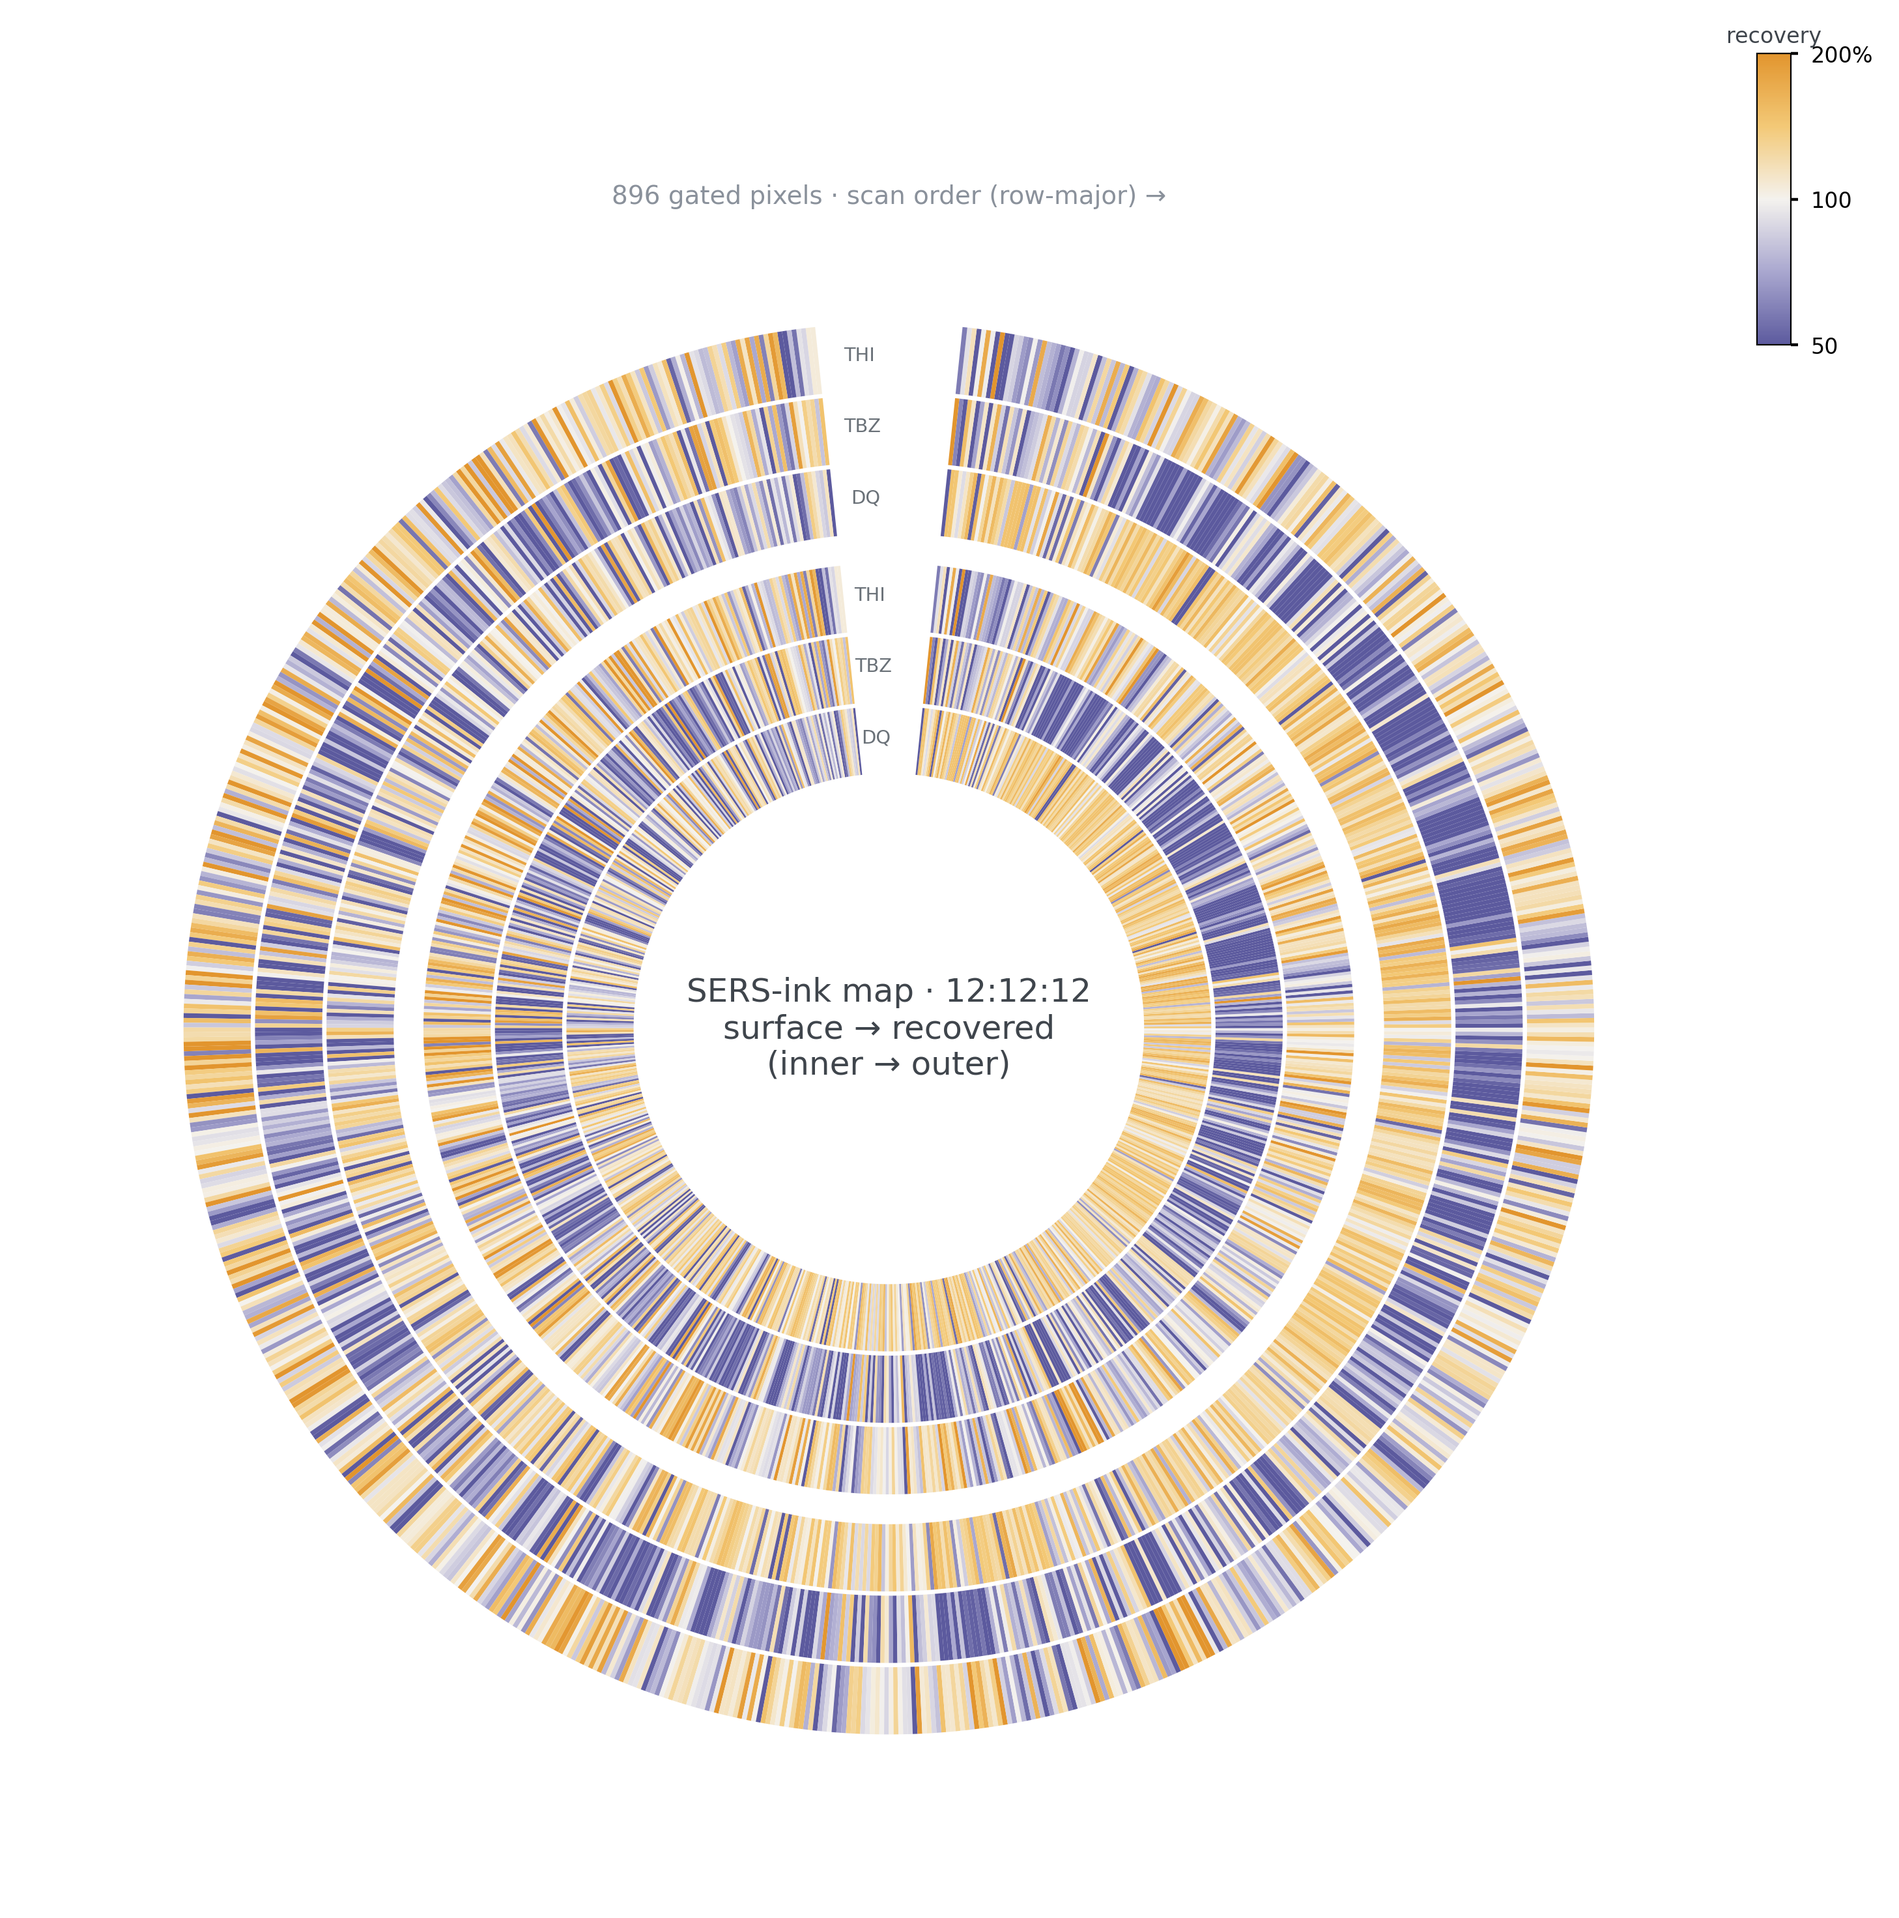
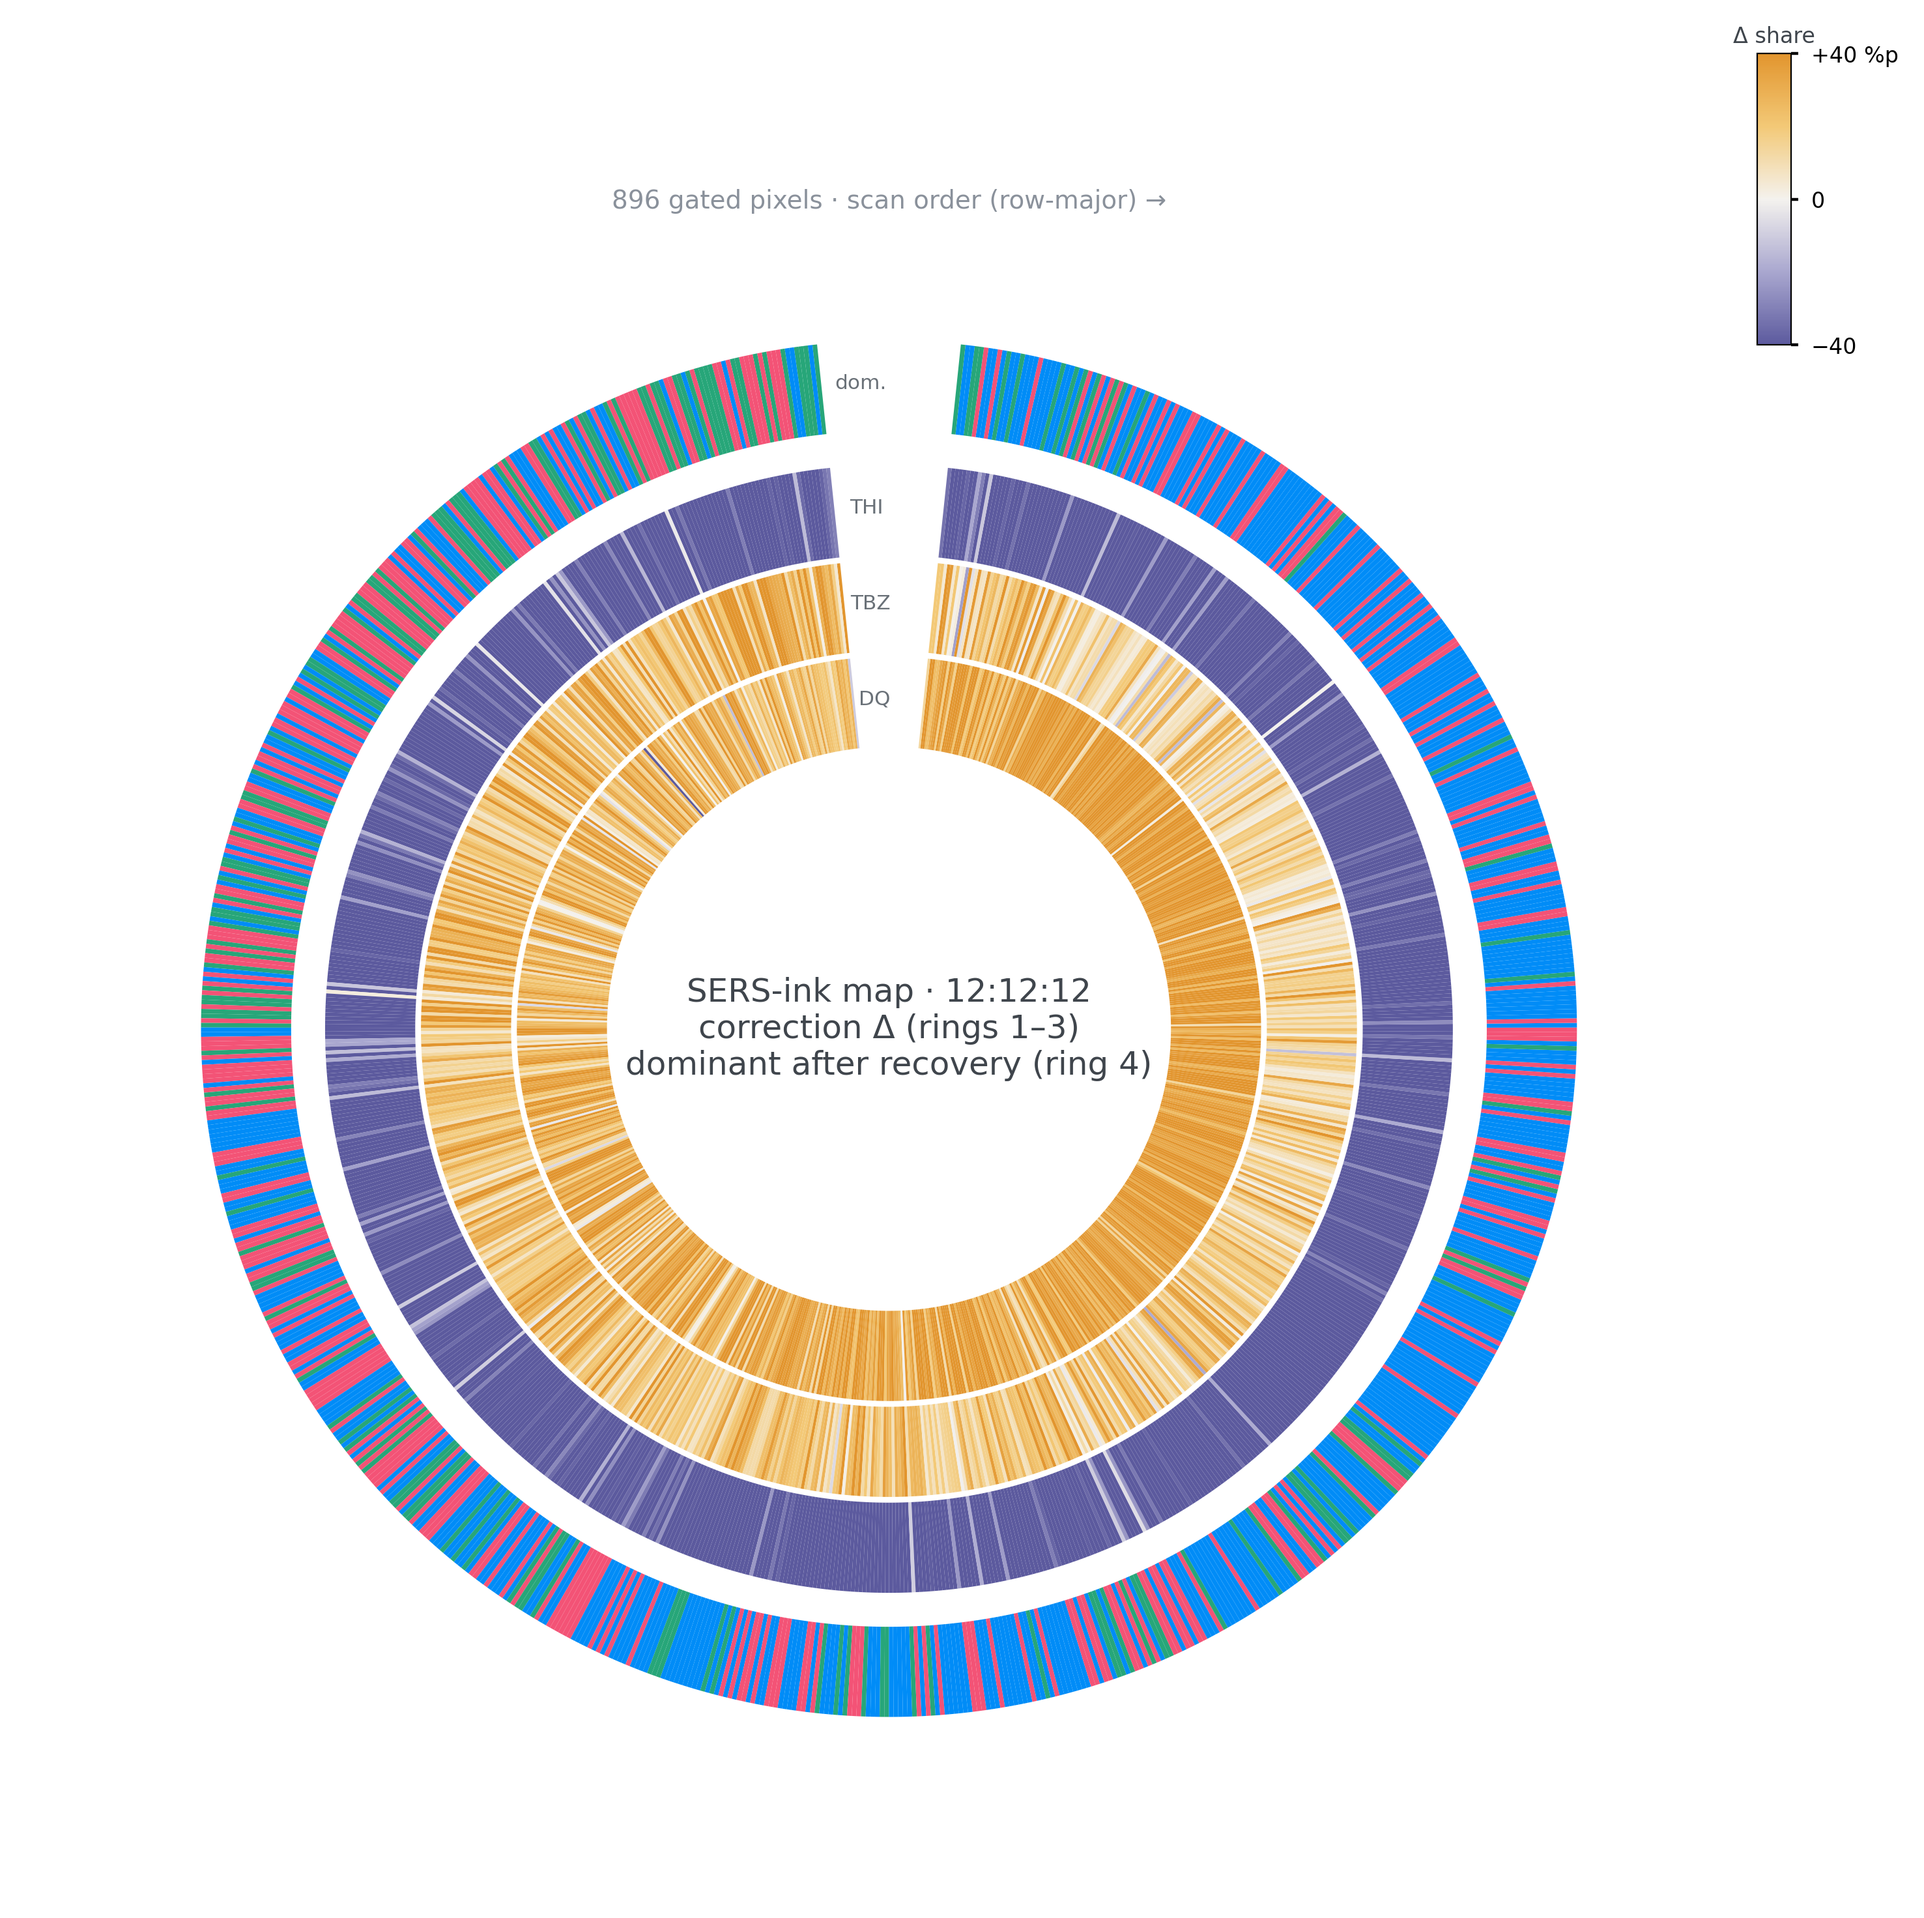
62b: 3 correction-delta rings (recovered minus surface, stage-1 from A_evidence) + dominant-substance ring; ratio_nb==model under dlpx bug fixed

diff --git a/documentation/scripts/fig62b_circular_realmap.py b/documentation/scripts/fig62b_circular_realmap.py
@@ -52,7 +52,10 @@ pk = np.clip(np.asarray(apply_model_pixels(m, r.wn, r.spectra), float), 0,
              None)
 cols = [list(m["subs"]).index(s) for s in SUBS]
 Rres = pk[:, cols] / (pk[:, cols].sum(1, keepdims=True) + 1e-12)
-Rsurf = np.asarray(r.ratio_nb, float)
+# dlpx 모드에서 ratio_nb는 이미 모델 조성이다 — 표면(stage-1 NNLS)은
+# A_evidence에서 가져와야 Δ가 0으로 죽지 않는다 (2026-09-03).
+ev = np.asarray(getattr(r, "A_evidence", r.A), float)[:, r.nonbg]
+Rsurf = ev / (ev.sum(1, keepdims=True) + 1e-12)
 sel = np.where(np.asarray(r.hit, bool))[0]
 # 스캔 순서(행 우선): THI-분율 정렬은 THI 링을 정의상 그라데이션으로 만들어
 # 오독됨 — 공간 순서면 글씨 획이 각도 방향의 연속 구간으로 살아남는다.
@@ -61,13 +64,17 @@ sel = sel[np.lexsort((xy[sel, 0], xy[sel, 1]))]
 n = len(sel)
 print("positive pixels:", n)
 
-M = np.full((6, n), np.nan)
-M[0:3] = np.log2(np.clip(Rsurf[sel].T / TRUE, 1e-3, None))
-M[3:6] = np.log2(np.clip(Rres[sel].T / TRUE, 1e-3, None))
+from matplotlib.colors import to_rgb
+
+D = (Rres[sel] - Rsurf[sel]).T        # (3, n) Δ조성 = recovered − surface
+CO = {s: labfig.CO[s] for s in SUBS}
+# 링 4 = 복원된 픽셀의 우세 성분색(혼합색은 탁해서 판독 불가)
+dom = np.argmax(Rres[sel], axis=1)
+mix = np.array([to_rgb(CO[SUBS[k]]) for k in dom])
 
 cmap = LinearSegmentedColormap.from_list(
     "pw", ["#5c5a9e", "#a9a7cf", "#f4f2ee", "#f3c977", "#e2952e"])
-norm = Normalize(-1, 1)              # ½×–2×
+norm = Normalize(-0.4, 0.4)           # Δ조성 ±40%p
 
 A0 = np.deg2rad(96)
 SPAN = np.deg2rad(348)
@@ -77,19 +84,22 @@ R0, DR, GAP = 1.0, 0.28, 0.10
 fig, ax = plt.subplots(figsize=(8.6, 8.6), subplot_kw=dict(polar=True))
 th_c = (edges[:-1] + edges[1:]) / 2
 w_c = (edges[1] - edges[0])
-for ring in range(6):
-    r_in = R0 + ring * DR + (GAP if ring >= 3 else 0)
-    ax.bar(th_c, np.full(n, DR * 0.94), bottom=r_in, width=w_c,
-           color=cmap(norm(M[ring])), edgecolor="none", zorder=2)
+DR = 0.34                              # 링 4개라 두껍게
+for ring in range(3):                  # Δ조성 링 (안→밖: DQ, TBZ, THI)
+    ax.bar(th_c, np.full(n, DR * 0.94), bottom=R0 + ring * DR, width=w_c,
+           color=cmap(norm(D[ring])), edgecolor="none", zorder=2)
+ax.bar(th_c, np.full(n, DR * 0.94), bottom=R0 + 3 * DR + GAP, width=w_c,
+       color=mix, edgecolor="none", zorder=2)   # 복원 조성(성분색 혼합)
 ax.text(np.deg2rad(90), 0.0,
-        "SERS-ink map · 12:12:12\nsurface → recovered\n(inner → outer)",
+        "SERS-ink map · 12:12:12\ncorrection Δ (rings 1–3)\n"
+        "dominant after recovery (ring 4)",
         fontsize=9, color="#3f454c", ha="center", va="center", zorder=4)
 for k, s in enumerate(SUBS):
-    for base in (R0, R0 + GAP + 3 * DR):
-        ax.text(np.deg2rad(92.5), base + (k + 0.5) * DR, s,
-                fontsize=5.2, color="#6a7178", ha="center", va="center",
-                zorder=4)
-r_out = R0 + GAP + 6 * DR
+    ax.text(np.deg2rad(92.5), R0 + (k + 0.5) * DR, s, fontsize=5.6,
+            color="#6a7178", ha="center", va="center", zorder=4)
+ax.text(np.deg2rad(92.5), R0 + 3 * DR + GAP + 0.5 * DR, "dom.",
+        fontsize=5.6, color="#6a7178", ha="center", va="center", zorder=4)
+r_out = R0 + GAP + 4 * DR
 ax.text(np.deg2rad(90), r_out + 0.45,
         f"{n} gated pixels · scan order (row-major) →", fontsize=7,
         color="#8a919b", ha="center")
@@ -98,11 +108,11 @@ ax.set_ylim(0, r_out + 0.6)
 ax.spines["polar"].set_visible(False)
 cax = fig.add_axes([0.90, 0.80, 0.015, 0.13])
 cb = fig.colorbar(plt.cm.ScalarMappable(norm=norm, cmap=cmap), cax=cax)
-cb.set_ticks([-1, 0, 1])
-cb.set_ticklabels(["50", "100", "200%"])
+cb.set_ticks([-0.4, 0, 0.4])
+cb.set_ticklabels(["−40", "0", "+40 %p"])
 cax.tick_params(labelsize=6, length=2)
 cb.outline.set_linewidth(0.4)
-cax.set_title("recovery", fontsize=6, color="#3f454c", pad=3)
+cax.set_title("Δ share", fontsize=6, color="#3f454c", pad=3)
 fig.savefig(os.path.join(RES, "62b_circular_realmap.png"), dpi=400,
             bbox_inches="tight", facecolor="white")
 print("saved 62b_circular_realmap.png")
